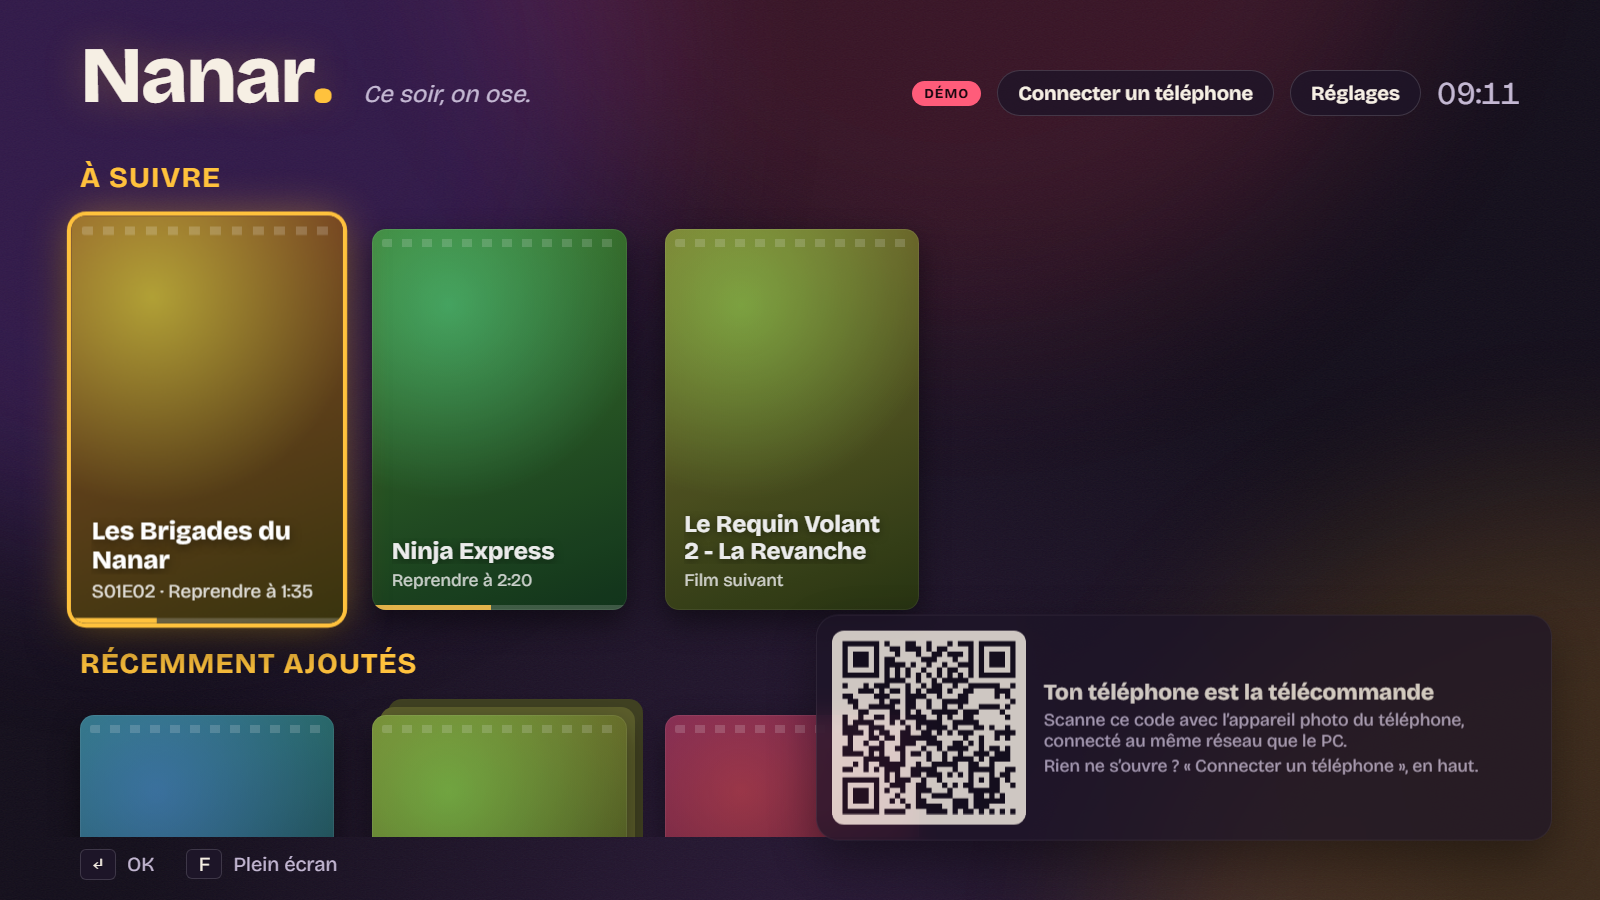
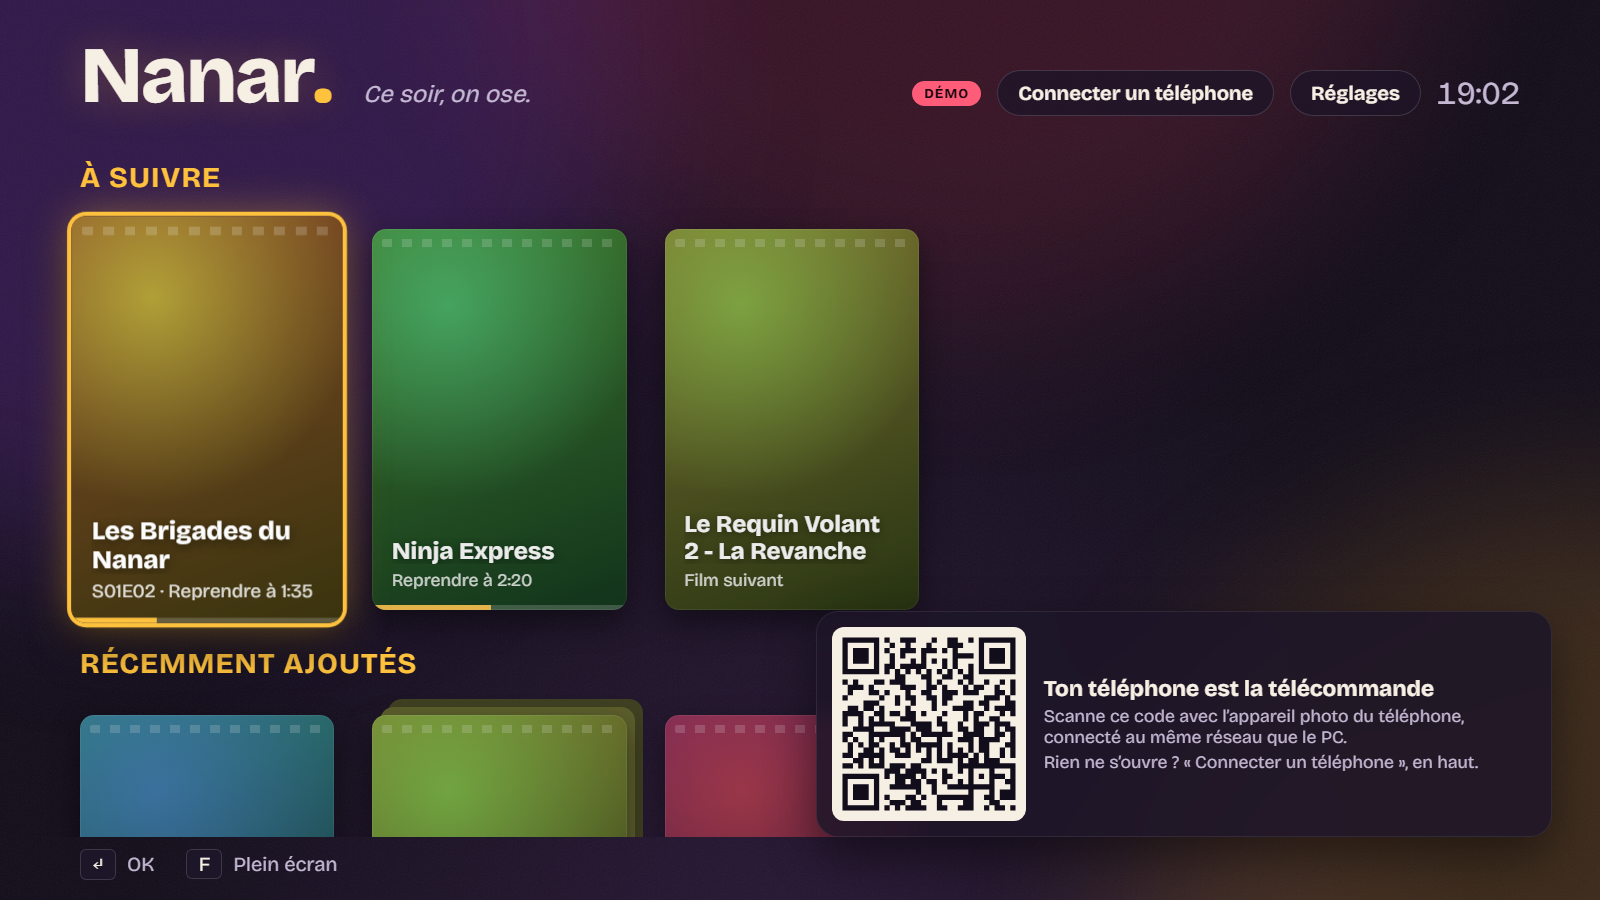
docs: say how to report a flaw and refresh the screenshot
A stable version needs a place to report a flaw, without giving it away.

Changed region(s): [[0.5, 0.6844, 0.9375, 0.9333], [0.875, 0.0933, 0.9688, 0.1244]]

diff --git a/SECURITY.md b/SECURITY.md
@@ -1,0 +1,11 @@
+# Sécurité
+
+Seule la dernière version publiée reçoit des corrections.
+
+**Tu as trouvé une faille ?** Ouvre une [issue](https://github.com/j3ffx/nanar/issues) sans donner de
+détails techniques, en disant seulement que tu veux signaler une faille : on conviendra d’un moyen
+d’en parler en privé. C’est un projet personnel, la réponse peut prendre quelques jours.
+
+**Limites connues :** les échanges entre le téléphone et le PC ne sont pas chiffrés (voir
+[La télécommande](README.md#la-télécommande)) et les versions Windows ne sont pas signées (voir
+[Signature](README.md#signature)).
